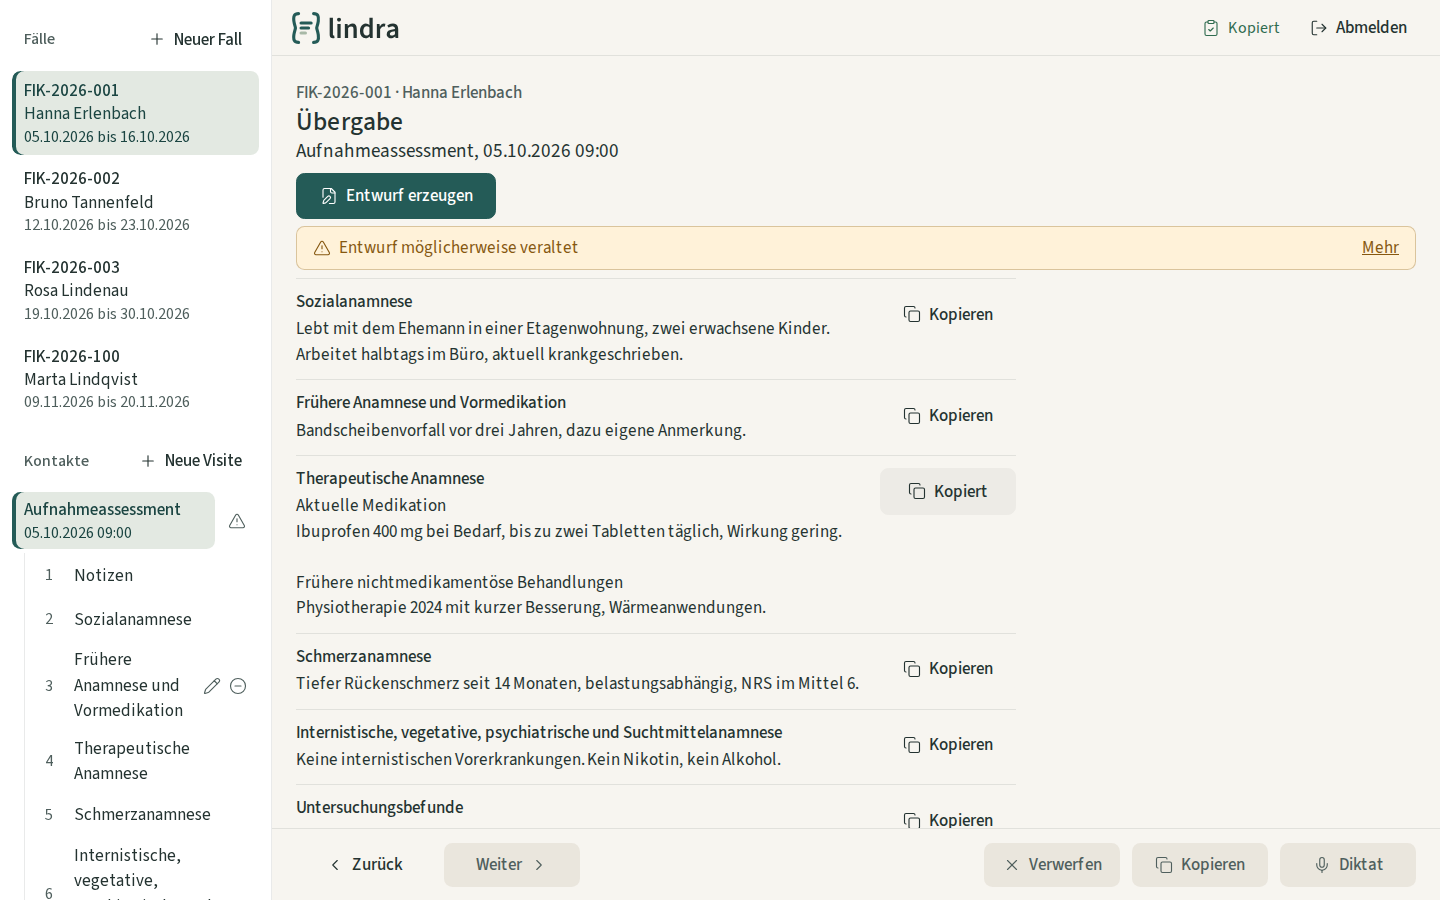
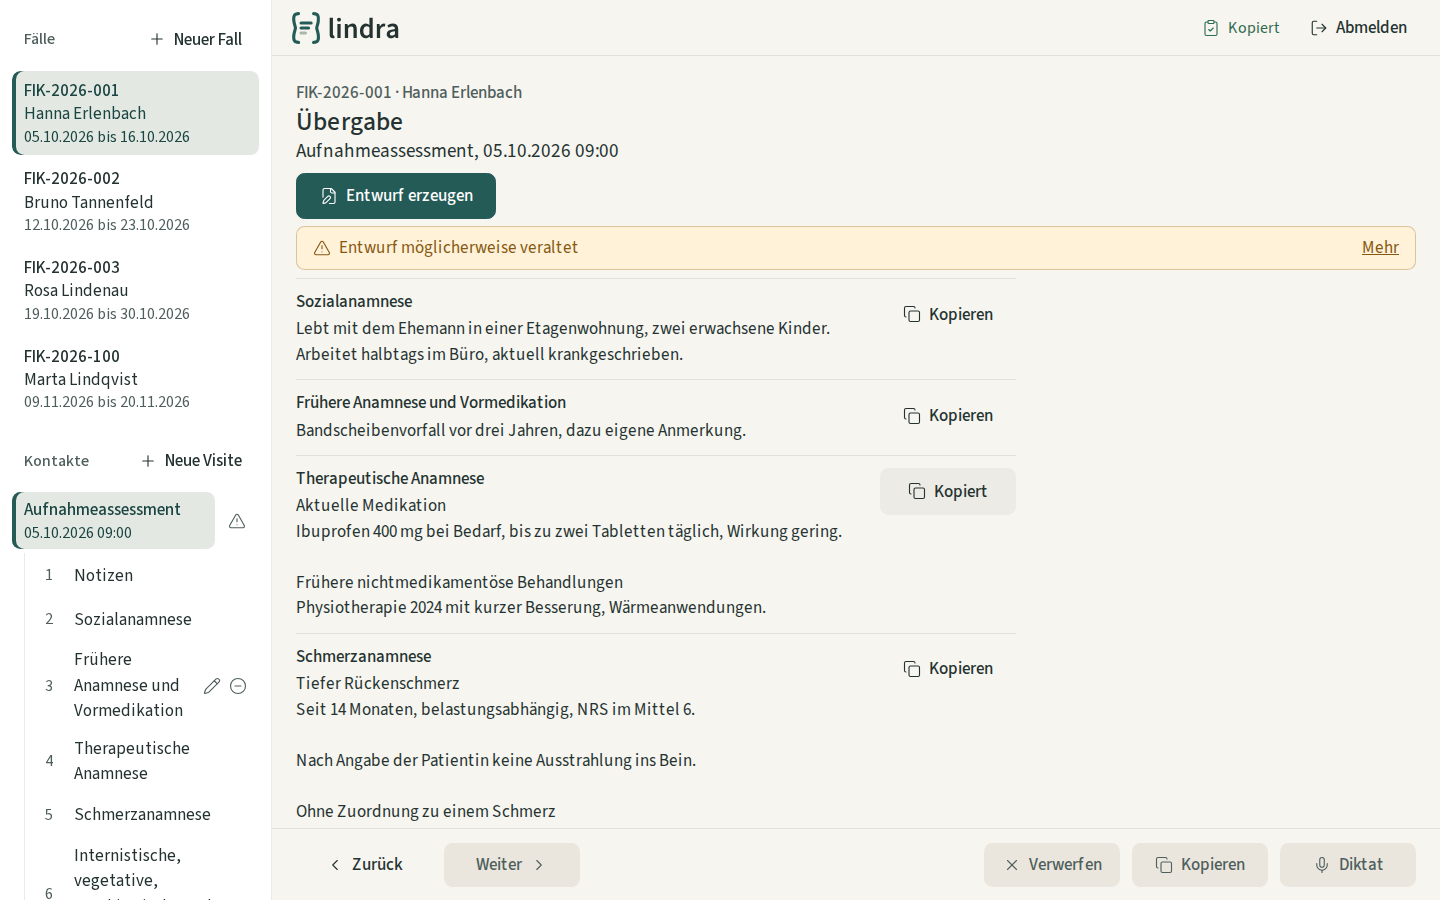
LFR-08: screenshots, result check document, agent notes

Changed region(s): [[0.1875, 0.7467, 0.5938, 0.9333], [0.625, 0.9022, 0.6875, 0.9333], [0.625, 0.8089, 0.6875, 0.84]]

diff --git a/docs/result-check.md b/docs/result-check.md
@@ -1,0 +1,47 @@
+# The result check
+
+Every generation result passes two checks before it becomes a proposal. Both run whichever text model answered (ADR 0003), and both enforce the intended purpose of ADR 0001: Lindra words what the physician supplied and adds nothing.
+
+## Structure check
+
+`lindra/drafts.py` (`parse_generated`) decides whether the result is a draft at all. It needs the exact sections of the encounter kind in the form's order, paragraphs with text, well-formed input references and clarification items that name a real section. Prose, a missing section or a malformed reference is a failed generation. The notes, the draft and the earlier proposal stay as they were, and the status area shows the reason with a retry button.
+
+Inside the Schmerzanamnese a paragraph may carry any heading of up to 80 characters, the name the physician gave a pain problem. Every other section allows only the form's subsection headings, and only Therapeutische Anamnese and Untersuchungsbefunde have any.
+
+## Support check
+
+`lindra/fidelity.py` (`check_result`) decides which paragraphs of a structured result may stay. A paragraph stays only when all of these hold.
+
+1. Every input reference points into a source the encounter has and quotes it word for word. Runs of whitespace count as one space. At the moment the only source is the encounter's notes. Ticket 09 adds the background encounters of a visit.
+2. Every number and date in the paragraph is in the passages it quotes. Spelled-out numbers count as the digits they stand for, so "zweimal" matches "2". This catches a converted dose, an invented duration and a summed score.
+3. It uses none of the wordings that only the physician supplies (listed below) unless a quoted passage uses the same wording.
+4. It words no provenance (the patient's report, a prior finding, the physician's own finding) that a quoted passage does not name. A statement without a named source stays without one.
+5. It does not settle a contradiction. When the model put an item on the clarification list that sets two or more measures against each other ("50 mg oder 100 mg"), a paragraph of that section that names only some of them is dropped.
+
+Each dropped paragraph becomes a clarification item for its section that says what was missing and that the paragraph is not in the draft. A section left with no paragraph and no item gets "Die Notizen enthalten keine Angaben für diesen Abschnitt." The model's own items come first.
+
+### Wordings that need the physician's own words
+
+| Kind | Examples |
+| --- | --- |
+| Ranking of pains | Hauptschmerz, im Vordergrund, führend, vorrangig |
+| Diagnosis or cause | Diagnose, Verdacht, Ursache, zurückzuführen, spricht für, Syndrom, Störung |
+| Justification | indiziert, Indikation, notwendig, erforderlich |
+| Recommendation | empfohlen, Empfehlung, sollte, ratsam, angezeigt |
+| Normal finding | unauffällig, regelrecht, o. B., physiologisch, normal |
+| Interaction, conversion | Wechselwirkung, Interaktion, kontraindiziert, äquivalent, umgerechnet |
+| Reading of a score | klinisch relevant, auffällig, pathologisch, mittelgradig |
+| Effect or tolerance | wirksam, ohne Wirkung, gut verträglich, ohne Nebenwirkung |
+| Completeness or approval | vollständig, geprüft, freigegeben, bestätigt |
+| Time | the seasons, the months, gestern, kürzlich |
+
+## What the check does not prove
+
+- The lists are a lexicon. They catch the wordings the intended purpose forbids. They cannot know every wording, and a model can phrase a diagnosis the lists do not contain.
+- A valid reference shows that the passage exists in the notes. It does not show that the passage supports the paragraph. ADR 0008 says an input reference shows origin, not correctness, and the interface says nothing more.
+- A contradiction is held back only when the model flagged it. A model that settles a contradiction without flagging it is not caught here.
+- The fixture model returns the cast's expected drafts, so the tests prove the check and the workflow, not the fidelity of a real model. Ticket 11 and the evaluation measure that.
+
+## Instructions to the model
+
+`lindra/prompt.py` holds the instructions every adapter sends with the notes. They state the same rules to the model. The support check does not rely on them; a model that ignores them loses the paragraphs that break them.

diff --git a/AGENTS.md b/AGENTS.md
@@ -16,7 +16,7 @@ Run Python through the project virtualenv. Nothing needs Node or a network at ru
 | Format | `.venv/bin/python -m ruff format .` (CI runs `--check`) |
 | Contrast check | `.venv/bin/python scripts/contrast_check.py` |
 | Vendor assets | `python3 scripts/fetch_assets.py --check` verifies the pins; without `--check` it refetches |
-| Browser flow and screenshots | `.venv/bin/python -m playwright install chromium` once, then `.venv/bin/python scripts/screenshots.py [output-dir]`; it exits non-zero on any finding and writes the review pictures to `docs/screenshots/LFR-07/` by default |
+| Browser flow and screenshots | `.venv/bin/python -m playwright install chromium` once, then `.venv/bin/python scripts/screenshots.py [output-dir]`; it exits non-zero on any finding and writes the pictures to `LFR-07/` (review steps) and `LFR-08/` (references, pain problems, clarification list) under `docs/screenshots/` by default |
 | CI lint | `docker run --rm -v "$PWD:/repo" -w /repo rhysd/actionlint:1.7.12 -no-color` |
 | Throwaway stack | `python3 scripts/env.py up --project lindra-<ticket>`, then `check`, `reset` and `down` with the same `--project` |
 
